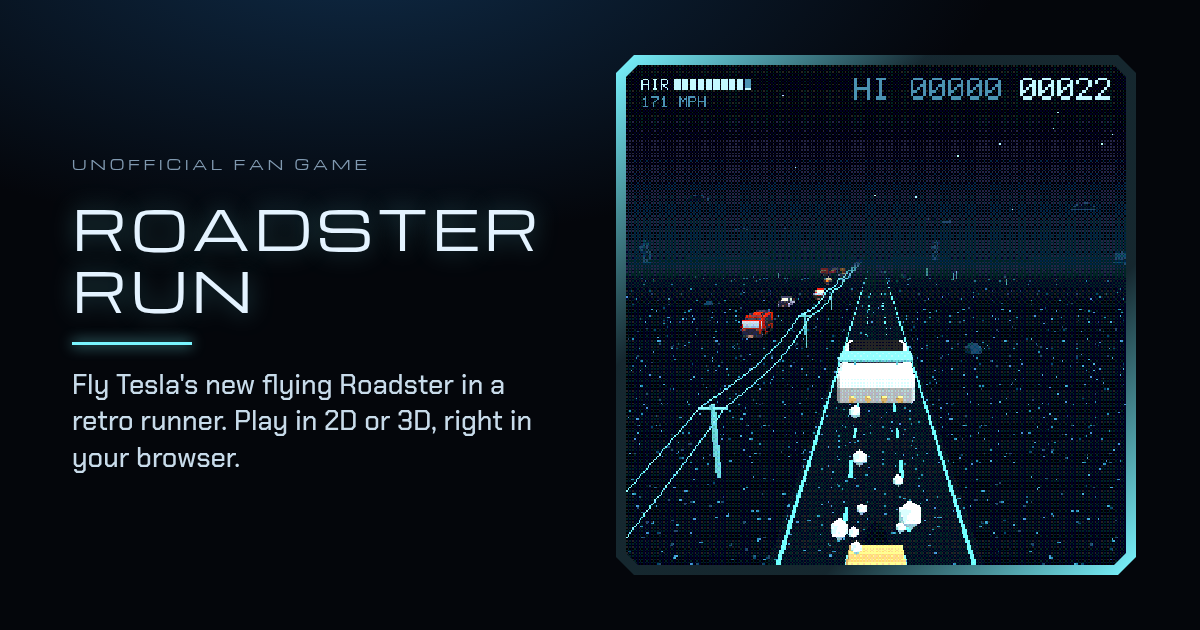
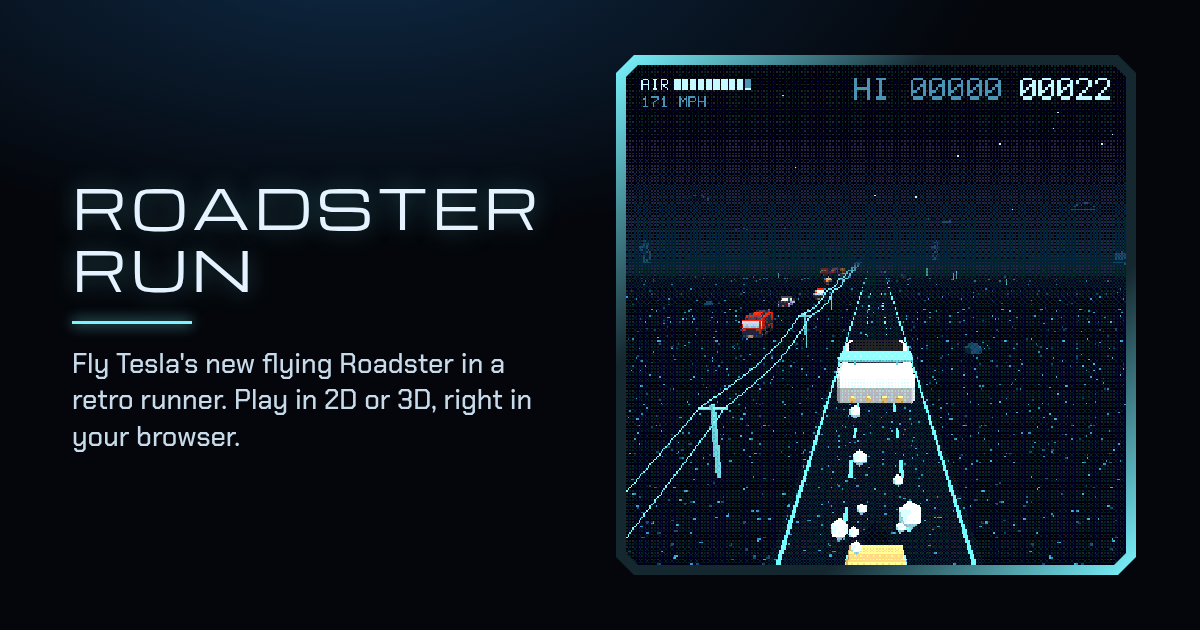
Update Roadster Run: full options menu in the post player
The square player that plays inside X posts now has every option from
the full page: all four cameras, colors, music, sound, CRT and pause.
The header tag and the footer note are removed, and the share card is
rendered again without the tag.

Changed region(s): [[0.0617, 0.3016, 0.4625, 0.754], [0.0617, 0.2413, 0.3083, 0.2714]]

diff --git a/web/public/roadster-run/player.html b/web/public/roadster-run/player.html
@@ -8,17 +8,21 @@
 <link rel="icon" type="image/svg+xml" href="favicon.svg">
 <link rel="preconnect" href="https://fonts.googleapis.com">
 <link rel="preconnect" href="https://fonts.gstatic.com" crossorigin>
-<link rel="stylesheet" href="https://fonts.googleapis.com/css2?family=Michroma&display=swap">
+<link rel="stylesheet" href="https://fonts.googleapis.com/css2?family=Chakra+Petch:wght@500&family=Michroma&display=swap">
 <style>
-  /* The player inside an X post: one square screen, tap to jump, hold the left third to duck. */
+  /* The player inside an X post: one square screen. Tap to jump, hold the left
+     third to duck. Every option from the full page sits in the menu. */
   :root {
-    --void: #050a14; --ice: #7af5ff; --ice-soft: #3fb9d8; --line: rgba(122, 230, 255, 0.22);
-    --text: #e4f3ff; --muted: #8aa2b8;
+    --void: #050a14; --ice: #7af5ff; --ice-soft: #3fb9d8; --line: rgba(122, 230, 255, 0.22); --line-hi: rgba(122, 230, 255, 0.55);
+    --glass: rgba(5, 12, 22, 0.74); --text: #e4f3ff; --muted: #8aa2b8;
     --display: "Michroma", "Eurostile", "Arial Black", sans-serif;
+    --ui: "Chakra Petch", "Segoe UI", system-ui, sans-serif;
+    --fs: max(8.5px, 2.3vw);
     color-scheme: dark;
   }
   html, body { margin: 0; height: 100%; overflow: hidden; background: var(--void); color: var(--text); }
   body { font-family: var(--display); -webkit-text-size-adjust: 100%; user-select: none; -webkit-user-select: none; }
+  button { font: inherit; color: inherit; }
   .screen {
     position: fixed; inset: 0; touch-action: none; cursor: pointer; -webkit-tap-highlight-color: transparent;
     background:
@@ -38,24 +42,58 @@
   }
   .screen.is3d .view3d, .screen.is3d .hud3d { display: block; }
   .screen.is3d #game { visibility: hidden; }
-  .ui {
-    position: fixed; left: 0; right: 0; bottom: 0; display: flex; align-items: flex-end; justify-content: space-between;
-    gap: 8px; padding: 0 max(8px, 2.4vw) max(8px, 2.4vw); pointer-events: none;
+  .screen.crt::after {
+    content: ""; position: absolute; inset: 0; pointer-events: none; z-index: 2;
+    background: repeating-linear-gradient(to bottom, rgba(0, 0, 0, 0) 0 2px, rgba(0, 0, 0, 0.2) 2px 3px),
+      radial-gradient(ellipse at center, rgba(0, 0, 0, 0) 58%, rgba(0, 0, 0, 0.4) 100%);
   }
-  .ui button, .ui a {
-    pointer-events: auto; font-family: var(--display); font-size: max(9px, 2.3vw); letter-spacing: 0.14em; color: var(--text);
-    background: rgba(5, 12, 22, 0.72); border: 1px solid var(--line); padding: 0.9em 1.1em 0.8em; cursor: pointer; text-decoration: none;
+
+  .chip {
+    pointer-events: auto; font-family: var(--display); font-size: var(--fs); letter-spacing: 0.14em; color: var(--text);
+    background: var(--glass); border: 1px solid var(--line); padding: 0.9em 1.1em 0.8em; cursor: pointer; text-decoration: none;
     clip-path: polygon(7px 0, 100% 0, 100% calc(100% - 7px), calc(100% - 7px) 100%, 0 100%, 0 7px);
-    -webkit-backdrop-filter: blur(4px); backdrop-filter: blur(4px);
+    -webkit-backdrop-filter: blur(4px); backdrop-filter: blur(4px); white-space: nowrap;
   }
-  .ui button:focus-visible, .ui a:focus-visible { outline: 2px solid var(--ice); outline-offset: 2px; }
+  .chip:hover { border-color: var(--line-hi); }
+  button:focus-visible, a:focus-visible { outline: 2px solid var(--ice); outline-offset: 2px; }
+  .ui {
+    position: fixed; left: 0; right: 0; bottom: 0; z-index: 5; display: flex; align-items: flex-end; justify-content: space-between;
+    gap: 6px; padding: 0 max(8px, 2.4vw) max(8px, 2.4vw); pointer-events: none;
+  }
+  .ui .group { display: flex; gap: 6px; }
   .tip {
-    position: fixed; left: 0; right: 0; bottom: calc(max(8px, 2.4vw) + 3.4em); text-align: center; pointer-events: none;
+    position: fixed; left: 0; right: 0; bottom: calc(max(8px, 2.4vw) + 3.4em); z-index: 4; text-align: center; pointer-events: none;
     font-family: var(--display); font-size: max(8px, 2.2vw); letter-spacing: 0.16em; color: var(--text);
     text-shadow: 0 0 6px rgba(5, 10, 20, 0.9), 0 0 2px #000;
   }
   .tip[hidden] { display: none; }
-  .ui .right { display: flex; gap: 8px; }
+
+  /* the options menu covers the square; the game waits underneath */
+  .menu {
+    position: fixed; inset: 0; z-index: 10; display: flex; align-items: center; justify-content: center; padding: max(10px, 3vw);
+    background: rgba(3, 7, 14, 0.78); -webkit-backdrop-filter: blur(6px); backdrop-filter: blur(6px);
+  }
+  .menu[hidden] { display: none; }
+  .panel {
+    width: min(100%, 520px); display: grid; gap: max(8px, 2.2vw); padding: max(12px, 3.4vw);
+    background: linear-gradient(rgba(10, 20, 34, 0.95), rgba(10, 20, 34, 0.95)) padding-box,
+      linear-gradient(140deg, var(--ice), rgba(122, 230, 255, 0.15) 35%, rgba(122, 230, 255, 0.15) 70%, var(--ice)) border-box;
+    border: 1px solid transparent;
+    clip-path: polygon(14px 0, calc(100% - 14px) 0, 100% 14px, 100% calc(100% - 14px), calc(100% - 14px) 100%, 14px 100%, 0 calc(100% - 14px), 0 14px);
+  }
+  .panel h2 { margin: 0; font-family: var(--display); font-weight: 400; font-size: max(10px, 2.8vw); letter-spacing: 0.24em; color: var(--ice); }
+  .k { font-size: max(7.5px, 1.9vw); letter-spacing: 0.22em; color: var(--muted); margin-bottom: 0.5em; }
+  .seg { display: grid; grid-template-columns: repeat(4, 1fr); border: 1px solid var(--line-hi); }
+  .seg button { background: transparent; border: 0; border-left: 1px solid var(--line); padding: 0.95em 0.2em 0.85em; font-size: var(--fs); letter-spacing: 0.12em; color: var(--muted); cursor: pointer; }
+  .seg button:first-child { border-left: 0; }
+  .seg button[aria-pressed="true"] { color: #031018; background: var(--ice); }
+  .grid2 { display: grid; grid-template-columns: 1fr 1fr; gap: max(6px, 1.6vw); }
+  .grid2 .chip { text-align: center; padding: 1em 0.4em 0.9em; }
+  .chip[aria-pressed="false"] { color: var(--muted); }
+  .keys { margin: 0; font-family: var(--ui); font-size: max(10px, 2.5vw); line-height: 1.45; color: var(--muted); letter-spacing: 0.01em; }
+  .row { display: flex; gap: max(6px, 1.6vw); }
+  .row .chip { flex: 1; text-align: center; padding: 1.05em 0.4em 0.95em; }
+  .chip.go { color: #031018; background: var(--ice); border-color: var(--ice); }
 </style>
 </head>
 <body>
@@ -64,14 +102,38 @@
 </div>
 <div class="tip" id="tip">TAP TO JUMP &nbsp;/&nbsp; HOLD LEFT SIDE TO DUCK</div>
 <div class="ui">
-  <button type="button" id="viewBtn" aria-label="Switch between the 2D and 3D views">2D</button>
-  <div class="right">
-    <button type="button" data-act="sound" id="optSound" aria-pressed="true">SOUND ON</button>
-    <a href="./" target="_blank" rel="noopener" aria-label="Open the full game in a new tab">FULL</a>
+  <div class="group">
+    <button class="chip" type="button" data-act="view" id="optView" aria-label="Switch camera">2D</button>
+    <button class="chip" type="button" data-act="pause" id="optPause">PAUSE</button>
+  </div>
+  <button class="chip" type="button" id="menuBtn" aria-haspopup="dialog" aria-controls="menu">MENU</button>
+</div>
+
+<div class="menu" id="menu" role="dialog" aria-modal="true" aria-label="Options" hidden>
+  <div class="panel">
+    <h2>OPTIONS</h2>
+    <div>
+      <div class="k">CAMERA</div>
+      <div class="seg" role="group" aria-label="Camera">
+        <button type="button" data-view="2d" aria-pressed="false">2D</button><button type="button" data-view="chase" aria-pressed="true">CHASE</button><button type="button" data-view="side" aria-pressed="false">SIDE</button><button type="button" data-view="tv" aria-pressed="false">TV</button>
+      </div>
+    </div>
+    <div class="grid2">
+      <button class="chip" type="button" data-act="colors" id="optColors">COLORS: HOLO</button>
+      <button class="chip" type="button" data-act="crt" id="optCrt" aria-pressed="false">CRT: OFF</button>
+      <button class="chip" type="button" data-act="music" id="optMusic" aria-pressed="false">MUSIC: OFF</button>
+      <button class="chip" type="button" data-act="sound" id="optSound" aria-pressed="true">SOUND: ON</button>
+    </div>
+    <p class="keys">Tap to jump. Keep holding to hover. Hold the left side to duck. On a keyboard, use Space, Down, V for camera, C for colors, M for sound and P to pause.</p>
+    <div class="row">
+      <button class="chip go" type="button" id="menuClose">RESUME</button>
+      <a class="chip" href="./" target="_blank" rel="noopener">FULL GAME</a>
+    </div>
   </div>
 </div>
+
 <script>
-  window.RR_CONFIG = { palette: 'holo', fit: 'css', music: false, view: 'chase', view3d: { w: 320, h: 320 }, labels: { sound: 'SOUND ' } };
+  window.RR_CONFIG = { palette: 'holo', fit: 'css', music: false, view: 'chase', view3d: { w: 320, h: 320 }, labels: { view: '' } };
 </script>
 <script src="js/sprites.js"></script>
 <script src="js/core.js"></script>
@@ -81,17 +143,38 @@
 <script src="js/main.js"></script>
 <script>
   (function () {
-    var btn = document.getElementById('viewBtn'), tip = document.getElementById('tip');
-    btn.addEventListener('click', function () {
-      var R = window.RR; if (!R || !R.setView) return;
-      R.setView(R.view === '2d' ? 'chase' : '2d'); btn.blur();
-    });
+    var $ = function (id) { return document.getElementById(id); };
+    var menu = $('menu'), tip = $('tip'), autoPaused = false;
+    function playing(g) { return g.state === 'play' || g.state === 'intro'; }
+    function openMenu() {
+      var R = window.RR; if (!R || !R.game) return;
+      menu.hidden = false;
+      if (!R.game.paused && playing(R.game)) { R.actions.pause(); autoPaused = true; }
+      $('menuClose').focus();
+    }
+    function closeMenu() {
+      var R = window.RR;
+      menu.hidden = true;
+      if (autoPaused && R && R.game.paused) R.actions.pause();
+      autoPaused = false;
+      $('menuBtn').blur();
+    }
+    $('menuBtn').addEventListener('click', openMenu);
+    $('menuClose').addEventListener('click', closeMenu);
+    // a camera pick closes the menu so the new view is visible right away
+    document.querySelectorAll('.menu [data-view]').forEach(function (b) { b.addEventListener('click', function () { setTimeout(closeMenu, 120); }); });
+    menu.addEventListener('pointerdown', function (e) { if (e.target === menu) closeMenu(); });
+    // while the menu is open, keys work the menu and not the game; Escape closes it
+    window.addEventListener('keydown', function (e) {
+      if (menu.hidden) return;
+      if (e.code === 'Escape') closeMenu();
+      e.stopImmediatePropagation();
+    }, true);
+    window.addEventListener('keyup', function (e) { if (!menu.hidden) e.stopImmediatePropagation(); }, true);
     function tick() {
       var R = window.RR;
       if (R && R.game) {
-        var label = R.view === '2d' ? '3D' : '2D';
-        if (btn.textContent !== label) btn.textContent = label;
-        var showTip = R.game.state === 'title' || R.game.state === 'over';
+        var showTip = menu.hidden && (R.game.state === 'title' || R.game.state === 'over');
         if (tip.hidden === showTip) tip.hidden = !showTip;
       }
       requestAnimationFrame(tick);

diff --git a/web/public/roadster-run/index.html b/web/public/roadster-run/index.html
@@ -92,8 +92,6 @@
   .brand { display: flex; align-items: center; gap: 12px; text-decoration: none; color: var(--text); }
   .brand svg { width: 58px; height: 17px; flex: none; filter: drop-shadow(0 0 6px rgba(122, 230, 255, 0.55)); }
   .brand span { font-family: var(--display); font-size: 17px; letter-spacing: 0.16em; }
-  .tag { font-family: var(--display); font-size: 9px; letter-spacing: 0.22em; color: var(--muted);
-    border: 1px solid var(--line); padding: 5px 8px 4px; }
   .spacer { flex: 1; }
   .sys { display: inline-flex; align-items: center; gap: 8px; font-family: var(--display); font-size: 9px; letter-spacing: 0.2em; color: var(--ice); }
   .sys i { width: 7px; height: 7px; background: var(--ice); box-shadow: 0 0 10px var(--ice); transform: rotate(45deg); }
@@ -269,7 +267,6 @@
       </svg>
       <span>ROADSTER RUN</span>
     </a>
-    <span class="tag">UNOFFICIAL FAN GAME</span>
     <span class="spacer"></span>
     <span class="sys" id="sys"><i></i><b id="sysText">SYSTEMS READY</b></span>
     <span class="clock mono" id="clock">T+ 00:00.0</span>
@@ -367,7 +364,6 @@
   </section>
 
   <footer class="foot">
-    <span>This is a fan project. Tesla and SpaceX did not make it and are not connected to it.</span>
     <span><a href="/">shreyaspimpalgaonkar.github.io</a></span>
   </footer>
 </div>
